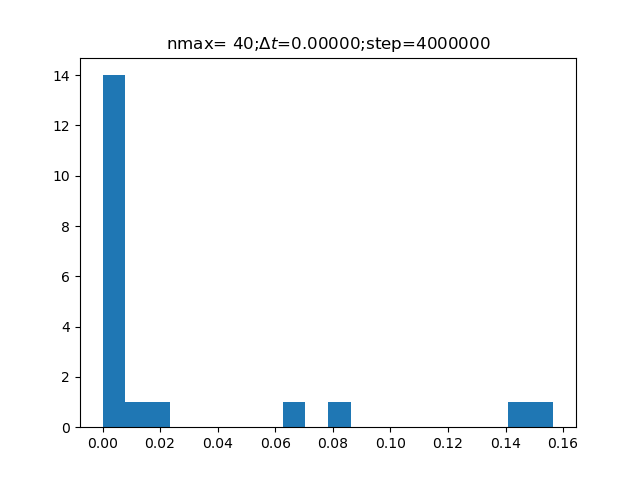
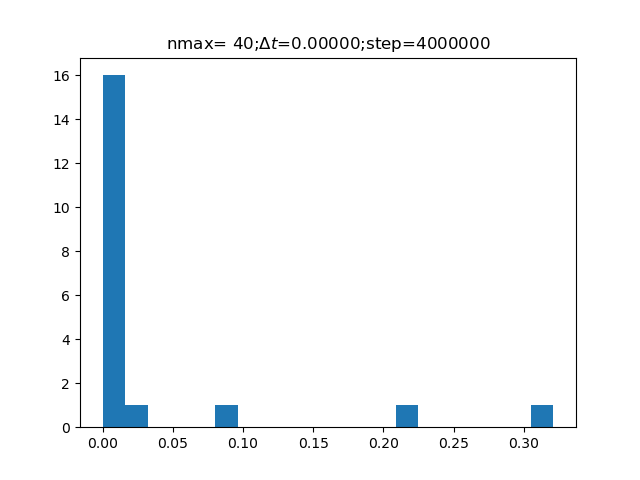
code update 2

diff --git a/src/force_distribution.py b/src/force_distribution.py
@@ -42,25 +42,25 @@ def plot_y(x,y):
     #plt.xscale('log')
     plt.plot(x,y)
     plt.title(r"nmax={:3d};$\Delta t$={:7.5f};step={:d}".format(nmax,1/n_grid,S))
-    f.savefig("a{:2.1f}_b{:3.1f}_force_{:d}_grid{:d}_nmax{:d}.png".format(a,b,S,n_grid,nmax))
+    f.savefig("a{:3.2f}_b{:3.2f}_force_{:d}_grid{:d}_nmax{:d}.png".format(a,b,S,n_grid,nmax))
     plt.show() 
 
 def plot_prob(dy):
     f=plt.figure()
-    hist, bin_edges = np.histogram(dy, bins=20, range=None, weights=None, density=True)
-    _ = plt.hist(hist, bins=20)
+    hist, bin_edges = np.histogram(dy, bins=200, range=(0,100.0), density=True)
+    n, bins, patches = plt.hist(hist, bins=200)
     plt.title(r"nmax={:3d};$\Delta t$={:7.5f};step={:d}".format(nmax,1/n_grid,S))
-    f.savefig("a{:2.1f}_b{:3.1f}_pdf_force_{:d}_grid{:d}_nmax{:d}.png".format(a,b,S,n_grid,nmax))
+    f.savefig("a{:3.2f}_b{:3.2f}_pdf_force_{:d}_grid{:d}_nmax{:d}.png".format(a,b,S,n_grid,nmax))
     plt.show()
 
 # Main function
 if "__name__ == __main__":
-    a = 0.95
-    z = 3.1 
+    a = 0.9
+    z = 3 
     b = 2*z +1
-    nmax = 40
-    n_grid = 1000000
-    S= 4000000
+    nmax = 30
+    n_grid = 1000
+    S= 400000
     x = np.arange(0,S,1) /n_grid
     y = []
     for iterm in x:
@@ -74,10 +74,13 @@ if "__name__ == __main__":
     for jj in range(np.size(x)):
         if jj==0:
             dy[jj] = -3*y[jj]+4*y[jj+1]-y[jj+2] # see PPT_y_name: Three-point-derivative
+            dy[jj] = abs(dy[jj])
         elif jj==np.size(x)-1:
             dy[jj]=y[jj-2]-4*y[jj-1]+3*y[jj] # threepoint formula; 
+            dy[jj] = abs(dy[jj])
         else:
             dy[jj]=-y[jj-1]+y[jj+1]
+            dy[jj] = abs(dy[jj])
     
     # Plotting
     plot_y(x[:5000],y[:5000])
